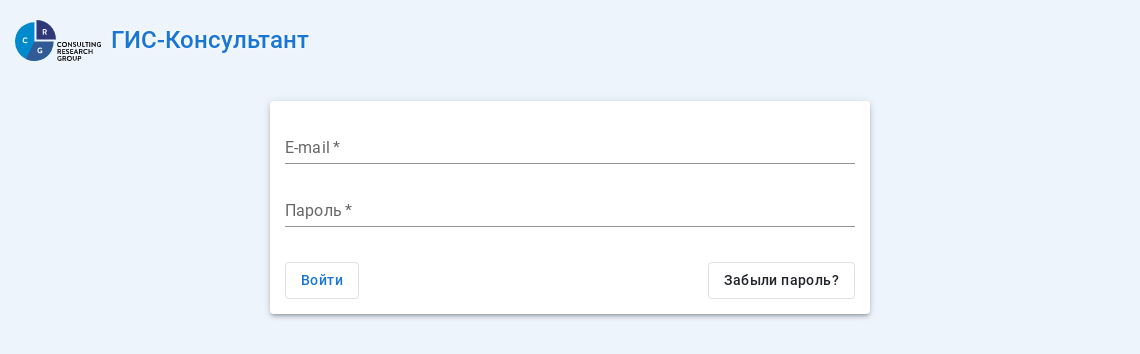
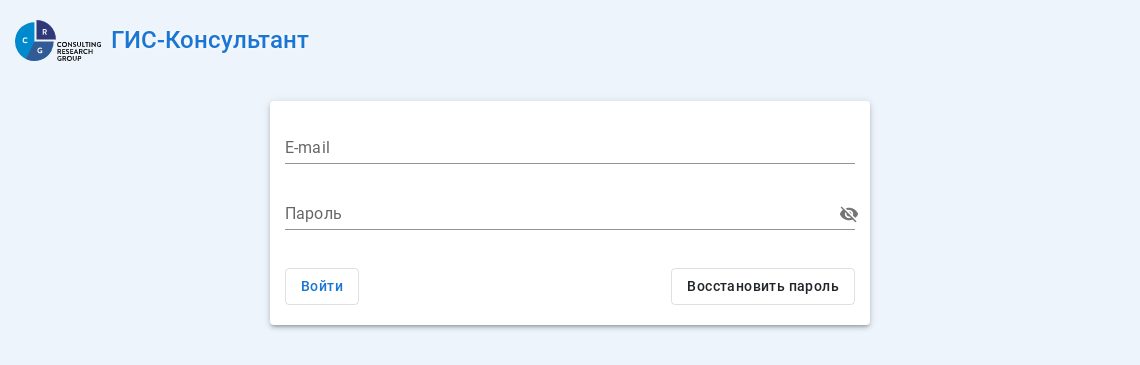
Merged PR 1096:  fix(ui: hermione): 172 screenshot
Related work items: #4830

diff --git a/portal-ui/src/app/components/Form/Control/_type/Form-Control_type_string.tsx b/portal-ui/src/app/components/Form/Control/_type/Form-Control_type_string.tsx
@@ -79,7 +79,7 @@ class FormControlTypeString extends Component<FormControlProps> {
             InputProps={{
               endAdornment: display === 'password' && (
                 <InputAdornment position='end'>
-                  <IconButton aria-label='Показать пароль' onClick={this.onShowPassword} edge='end'>
+                  <IconButton aria-label='Показать пароль' onClick={this.onShowPassword} edge='end' size='small'>
                     {this.showPassword ? <Visibility fontSize='small' /> : <VisibilityOff fontSize='small' />}
                   </IconButton>
                 </InputAdornment>
